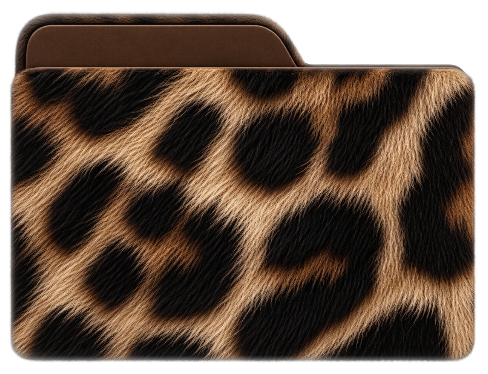
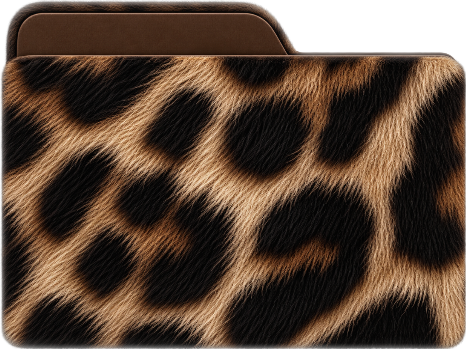
modificaciones

diff --git a/proyectos.html b/proyectos.html
@@ -42,11 +42,23 @@
 
 
     <div class="carpetas">
+
+
         <img src="./src/img/Carpetabeige.png" alt="Carpetabeige">
+
+
         <img src="./src/img/Carpetacebra.png" alt="Carpetacebra">
+
+
         <img src="./src/img/Carpetaestampadonegro.png" alt="Carpetaestampadonegro">
-        <img src="./src/img/Carpetaleopardo.png" alt="Carpetaleopardo">
-        <img src="./src/img/Carpetanegra.png" alt="Carpetanegra">
+
+
+        <img src="./src/img/Carpetaleopardo1.png" alt="Carpetaleopardo1">
+
+
+        <img src="./src/img/Carpetanegra1.png" alt="Carpetanegra1">
+
+
     </div>
 
 </body>
